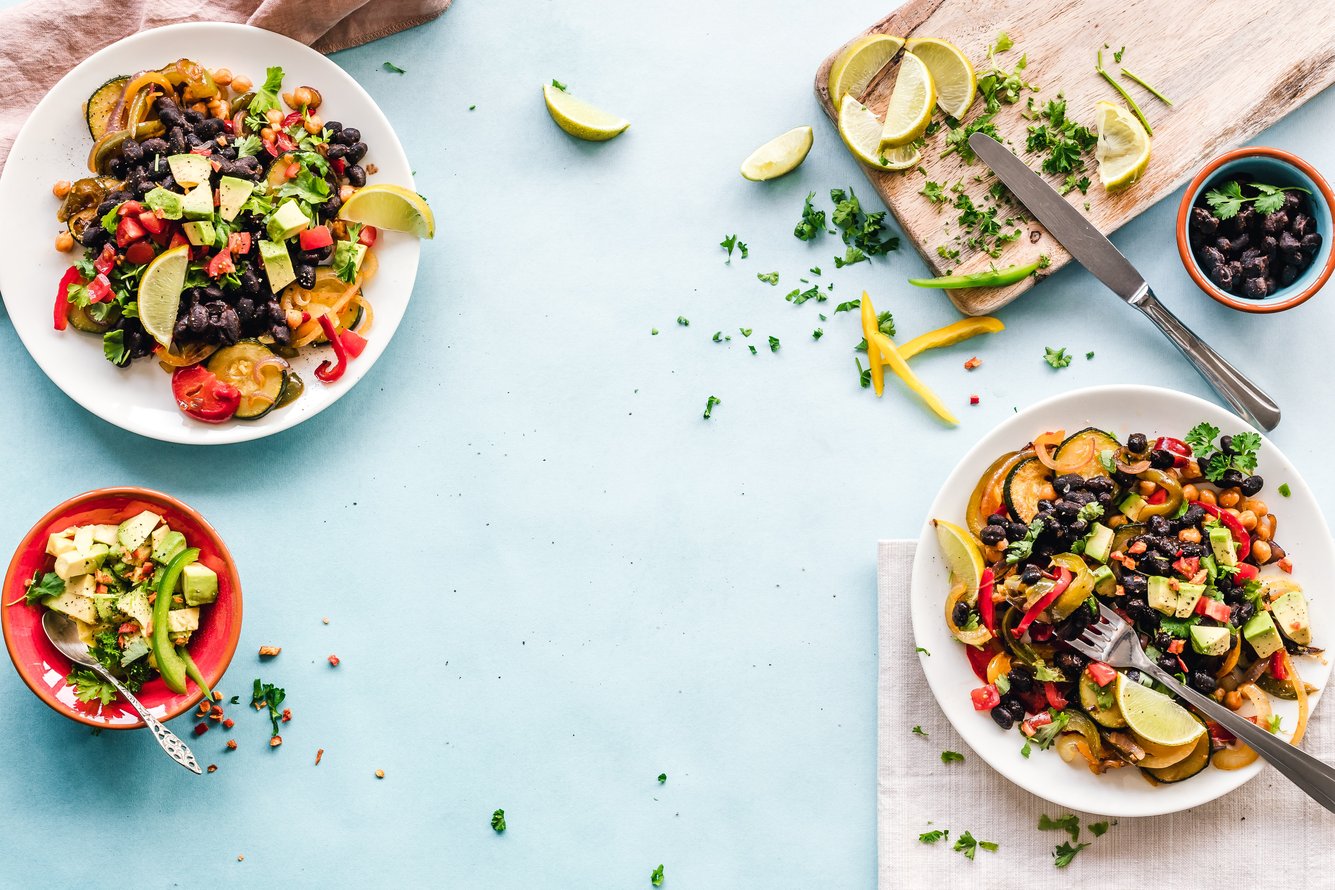
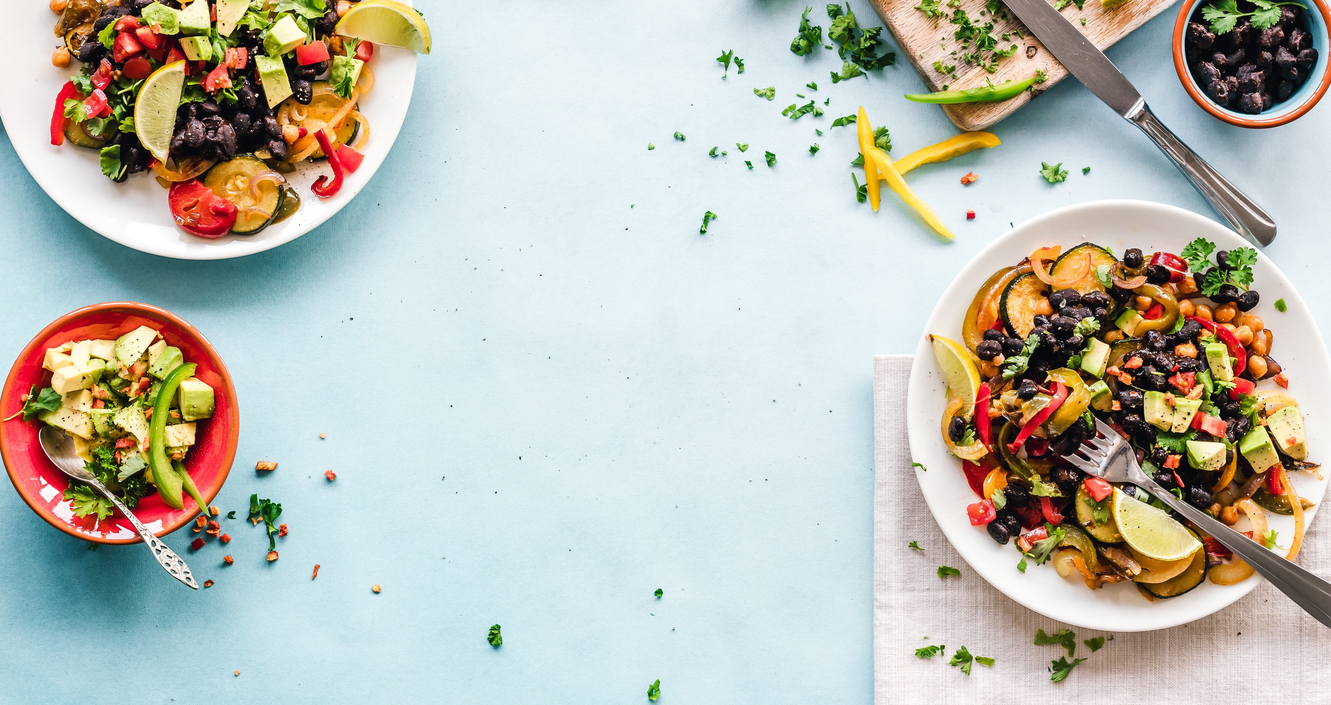
header

diff --git a/index.html b/index.html
@@ -25,7 +25,7 @@
 
         <div>
             <div class="headerimg">
-                <img class="headerimage" src="img/headerimg.jpg" alt="Header image">
+                <img class="headerimage" src="img/headerBIG.jpg" alt="Header image">
                 <!--Figure 4. Black Bean Fajitas (Olsson, E., 2018).-->
                     <h1 class="headertitle">
                         fomoFOOD<br>

diff --git a/styles/index_stylesheet.css b/styles/index_stylesheet.css
@@ -2,7 +2,7 @@
 .headerimg {
     background-size: cover;
     text-align: center;
-    height: 300px;
+    height: 750px;
     width: 100%;
     background-repeat: no-repeat;
     padding: 0px;
